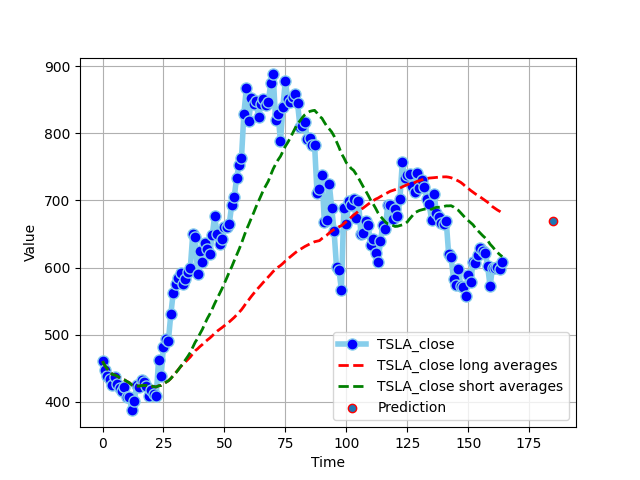
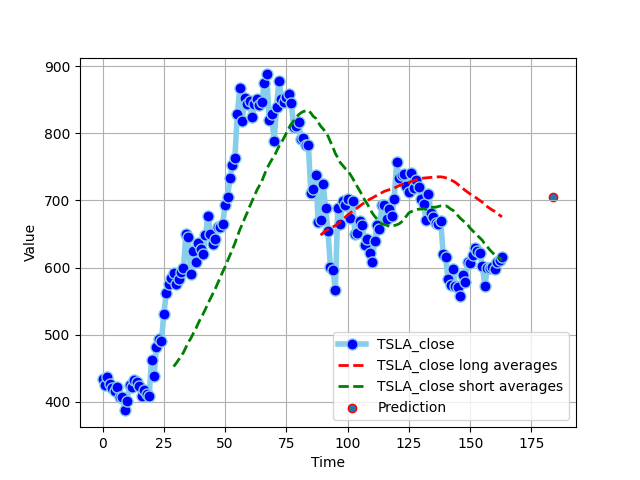
fixed autotrading.py bugs

diff --git a/autotrading.py b/autotrading.py
@@ -9,7 +9,7 @@ from datetime import datetime, timedelta
 from dateutil import relativedelta
 import time
 import pickle
-import tensorflow as tf
+from tensorflow.keras.models import load_model
 import json
 import my_utils
 import telegram
@@ -26,14 +26,23 @@ window_size = model_info['window_size']
 max_features_number = model_info['max_features_number']
 
 # Load model
-model = tf.keras.models.load_model('models/' + symbol + '.h5')
+model = load_model('models/' + symbol + '.h5')
 
-# Load alpha_vantage API key from config file
+# Load alpha_vantage API key, token for telegram bot and chat id from config file
 with open("config/config.json") as json_file:
     config_dict = json.load(json_file)
     apiKey = config_dict["alpha_vantage_password"]
     chat_id = config_dict["chat_id"]
     token = config_dict["bot_token"]
+
+# Start bot
+bot = telegram.Bot(token)
+text = 'Good evening! I am Trady, your personal trading assistant!'
+bot.send_message(chat_id, text, parse_mode='markdown', disable_web_page_preview=True)
+
+text = 'I am analysing worldwide transactions to provide you the best advice. Please wait for 15-20 minutes...'
+bot.send_message(chat_id, text, parse_mode='markdown', disable_web_page_preview=True)
+bot.sendAnimation(chat_id, animation=open('charts/loading_data.gif', 'rb'))
 
 # Initialize alpha_vantage object
 ts = TimeSeries(key=apiKey, output_format='csv')
@@ -67,7 +76,7 @@ for (i, feature) in enumerate(features):
 
     # since the data we want may be in the previous or in the following "slice" we download data also
     # for some days more
-    safe_bound = 2
+    safe_bound = 3
     needed_days_safe = all_days[offset - safe_bound:offset + window_size + safe_bound]
     months_slice = list(set([relativedelta.relativedelta(now, datetime.strptime(day, '%Y-%m-%d')).months + 1 for day in
                              needed_days_safe]))
@@ -82,22 +91,26 @@ for (i, feature) in enumerate(features):
             slice = 'year' + str(year) + 'month' + str(month)
             df = my_utils.get_trading_data(ts, feature_only_name, slice)  # API call
             api_request_counter += 1
+            if api_request_counter % 5 == 0:
+                time.sleep(60)  # wait for API to reload
             df_feature = pd.concat([df_feature, df])  # add data
 
     needed_values = np.array(df_feature[df_feature['time'].isin(needed_days)][feature])  # select only needed days
+    if len(needed_values)==0:
+        needed_values = np.array([max(0,np.mean(df_feature[feature].astype('float64')))]) #use mean in case of not found value
     needed_values = needed_values.astype('float64')
-    needed_values[np.isnan(needed_values)] = np.mean(
-        needed_values)  # fill nan with the mean (there may be nans in bank holiday days)
+    while len(needed_values)<window_size: # fill empty values with the previous (there may be nans in bank holiday days)
+        needed_values = np.append(needed_values,needed_values[-1])
     x[i] = needed_values  # add values of this features to x list of array
 
-    if api_request_counter % 5 == 0:
-        time.sleep(59)  # wait for API to reload
-
 x = np.array(x)  # transform x into a numpy array
-prediction = model.predict(x)
+prediction = model.predict(x.T.reshape(1,window_size,len(features)))[0][0]
 
-# TO DELETE
-prediction = 670
+# Send another message
+text = 'I am almost done! Please just give me another 5 minutes...'
+bot.send_message(chat_id, text, parse_mode='markdown', disable_web_page_preview=True)
+bot.sendAnimation(chat_id, animation=open('charts/loading_data_2.gif', 'rb'))
+
 
 # Load asset
 months_to_load = 8 # download last months of selected symbol
@@ -132,19 +145,15 @@ asset_value = portfolio[portfolio['Asset'] == symbol_only_name]['Value'].iloc[0]
 new_liquid_value = liquid_value
 new_asset_value = asset_value
 
-# Start bot
-bot = telegram.Bot(token)
-text = 'Good evening! I am Trady, your personal trading assistant!'
-bot.send_message(chat_id, text, parse_mode='markdown', disable_web_page_preview=True)
 
 # Send info about current portfolio
-text = 'The current composition in euros of your portfolio is the following:'
+text = 'The current composition in dollars of your portfolio is the following:'
 bot.send_message(chat_id, text, parse_mode='markdown', disable_web_page_preview=True)
 
-text = 'Liquid = ' + str(liquid_value) + ' euros'
+text = 'Liquid = ' + str(liquid_value) + ' dollars'
 bot.send_message(chat_id, text, parse_mode='markdown', disable_web_page_preview=True)
 
-text = str(symbol_only_name) + ' = ' + str(asset_value * yesterday_symbol_value) + ' euros'
+text = str(symbol_only_name) + ' = ' + str(asset_value * yesterday_symbol_value) + ' dollars'
 bot.send_message(chat_id, text, parse_mode='markdown', disable_web_page_preview=True)
 
 # Send image of current portfolio
@@ -155,7 +164,7 @@ performance = [liquid_value, asset_value * yesterday_symbol_value]
 plt.figure(0)
 plt.barh(y_pos, performance, align='center', alpha=0.8)
 plt.yticks(y_pos, objects)
-plt.xlabel('Value (Euro)')
+plt.xlabel('Value (Dollars)')
 plt.title('Your current PORTFOLIO')
 
 plt.savefig('charts/portfolio.png')

diff --git a/training.py b/training.py
@@ -79,7 +79,7 @@ checkpoint_cb = tf.keras.callbacks.ModelCheckpoint('models/' + symbol + '.h5', s
 early_stopping_cb = tf.keras.callbacks.EarlyStopping(patience=300, restore_best_weights=True)
 
 # since model performances are very linked to selection of initial values, the model is trained
-# until it has a particular loss value
+# until its validation loss is sufficiently low
 go_on = True
 
 while go_on:
@@ -94,7 +94,7 @@ while go_on:
         tf.keras.layers.Dropout(0.1),
         tf.keras.layers.Dense(10, activation="relu"),
         tf.keras.layers.Dense(len(days_to_predict)),
-        tf.keras.layers.Lambda(lambda x: x * max(y))  # depends on data
+        tf.keras.layers.Lambda(lambda x: x * 600)  # speed up the convergence to optimum
     ])
 
     model.compile(loss=tf.keras.losses.Huber(),
@@ -108,7 +108,7 @@ while go_on:
         callbacks=[checkpoint_cb, early_stopping_cb]
     )
 
-    if history.history['val_mae'][-patience] < maximum_mae_admitted:  # [-patience] is the minimum loss
+    if history.history['val_mae'][-patience] < maximum_mae_admitted:  # [-patience] is the index of the minimum loss
         go_on = False
 
 

diff --git a/download_hist_data.py b/download_hist_data.py
@@ -33,7 +33,7 @@ ts = TimeSeries(key=apiKey, output_format='csv')
 years = list(range(2, 0, -1))
 months = list(range(12, 0, -1))
 now = datetime.now()  # current date and time
-all_days = [(now - timedelta(i)).strftime("%Y-%m-%d") for i in range(0, 850) if
+all_days = [(now - timedelta(i)).strftime("%Y-%m-%d") for i in range(0, 750) if
             (now - timedelta(i)).weekday() < 5]  # array of all days
 
 # Initialize final DataFrame

diff --git a/features_selection.py b/features_selection.py
@@ -6,7 +6,7 @@ import pandas as pd
 import numpy as np
 import pickle
 
-# Set minimum correlation needed for a feature to be considered
+# Set minimum correlation needed for a feature to be considered in the model
 min_corr = 0.9
 
 # Load correlation table and offset table
